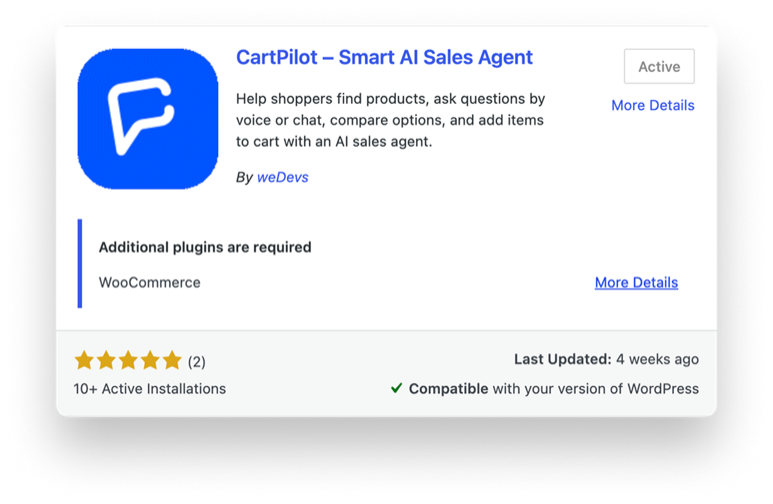
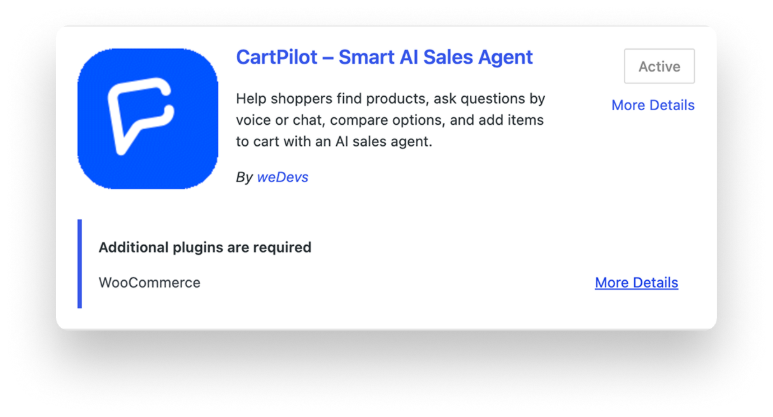
WooCommerce how-it-works: drop rating/installs footer from the install screenshot

diff --git a/src/data/platforms.ts b/src/data/platforms.ts
@@ -505,7 +505,7 @@ export const platforms: Record<string, Platform> = {
       "sync",
       "layers"
     ],
-    "how_ui": [["woo-ui-1.png", 63], ["woo-ui-2.png", 82], ["woo-ui-4.png", 80], ["woo-ui-3.png", 80], null],
+    "how_ui": [["woo-ui-1.png?v=2", 63], ["woo-ui-2.png", 82], ["woo-ui-4.png", 80], ["woo-ui-3.png", 80], null],
     "how_note": "Lifetime plans, with the option to use your own AI provider key, are available for WooCommerce stores. <a href=\"/pricing/\">See Plans &amp; Pricing →</a>",
     "steps_h2": "Live on Your WooCommerce Store <span>in Three Steps</span>",
     "steps_p": "No developer and no code. Everything starts from your WordPress admin.",
